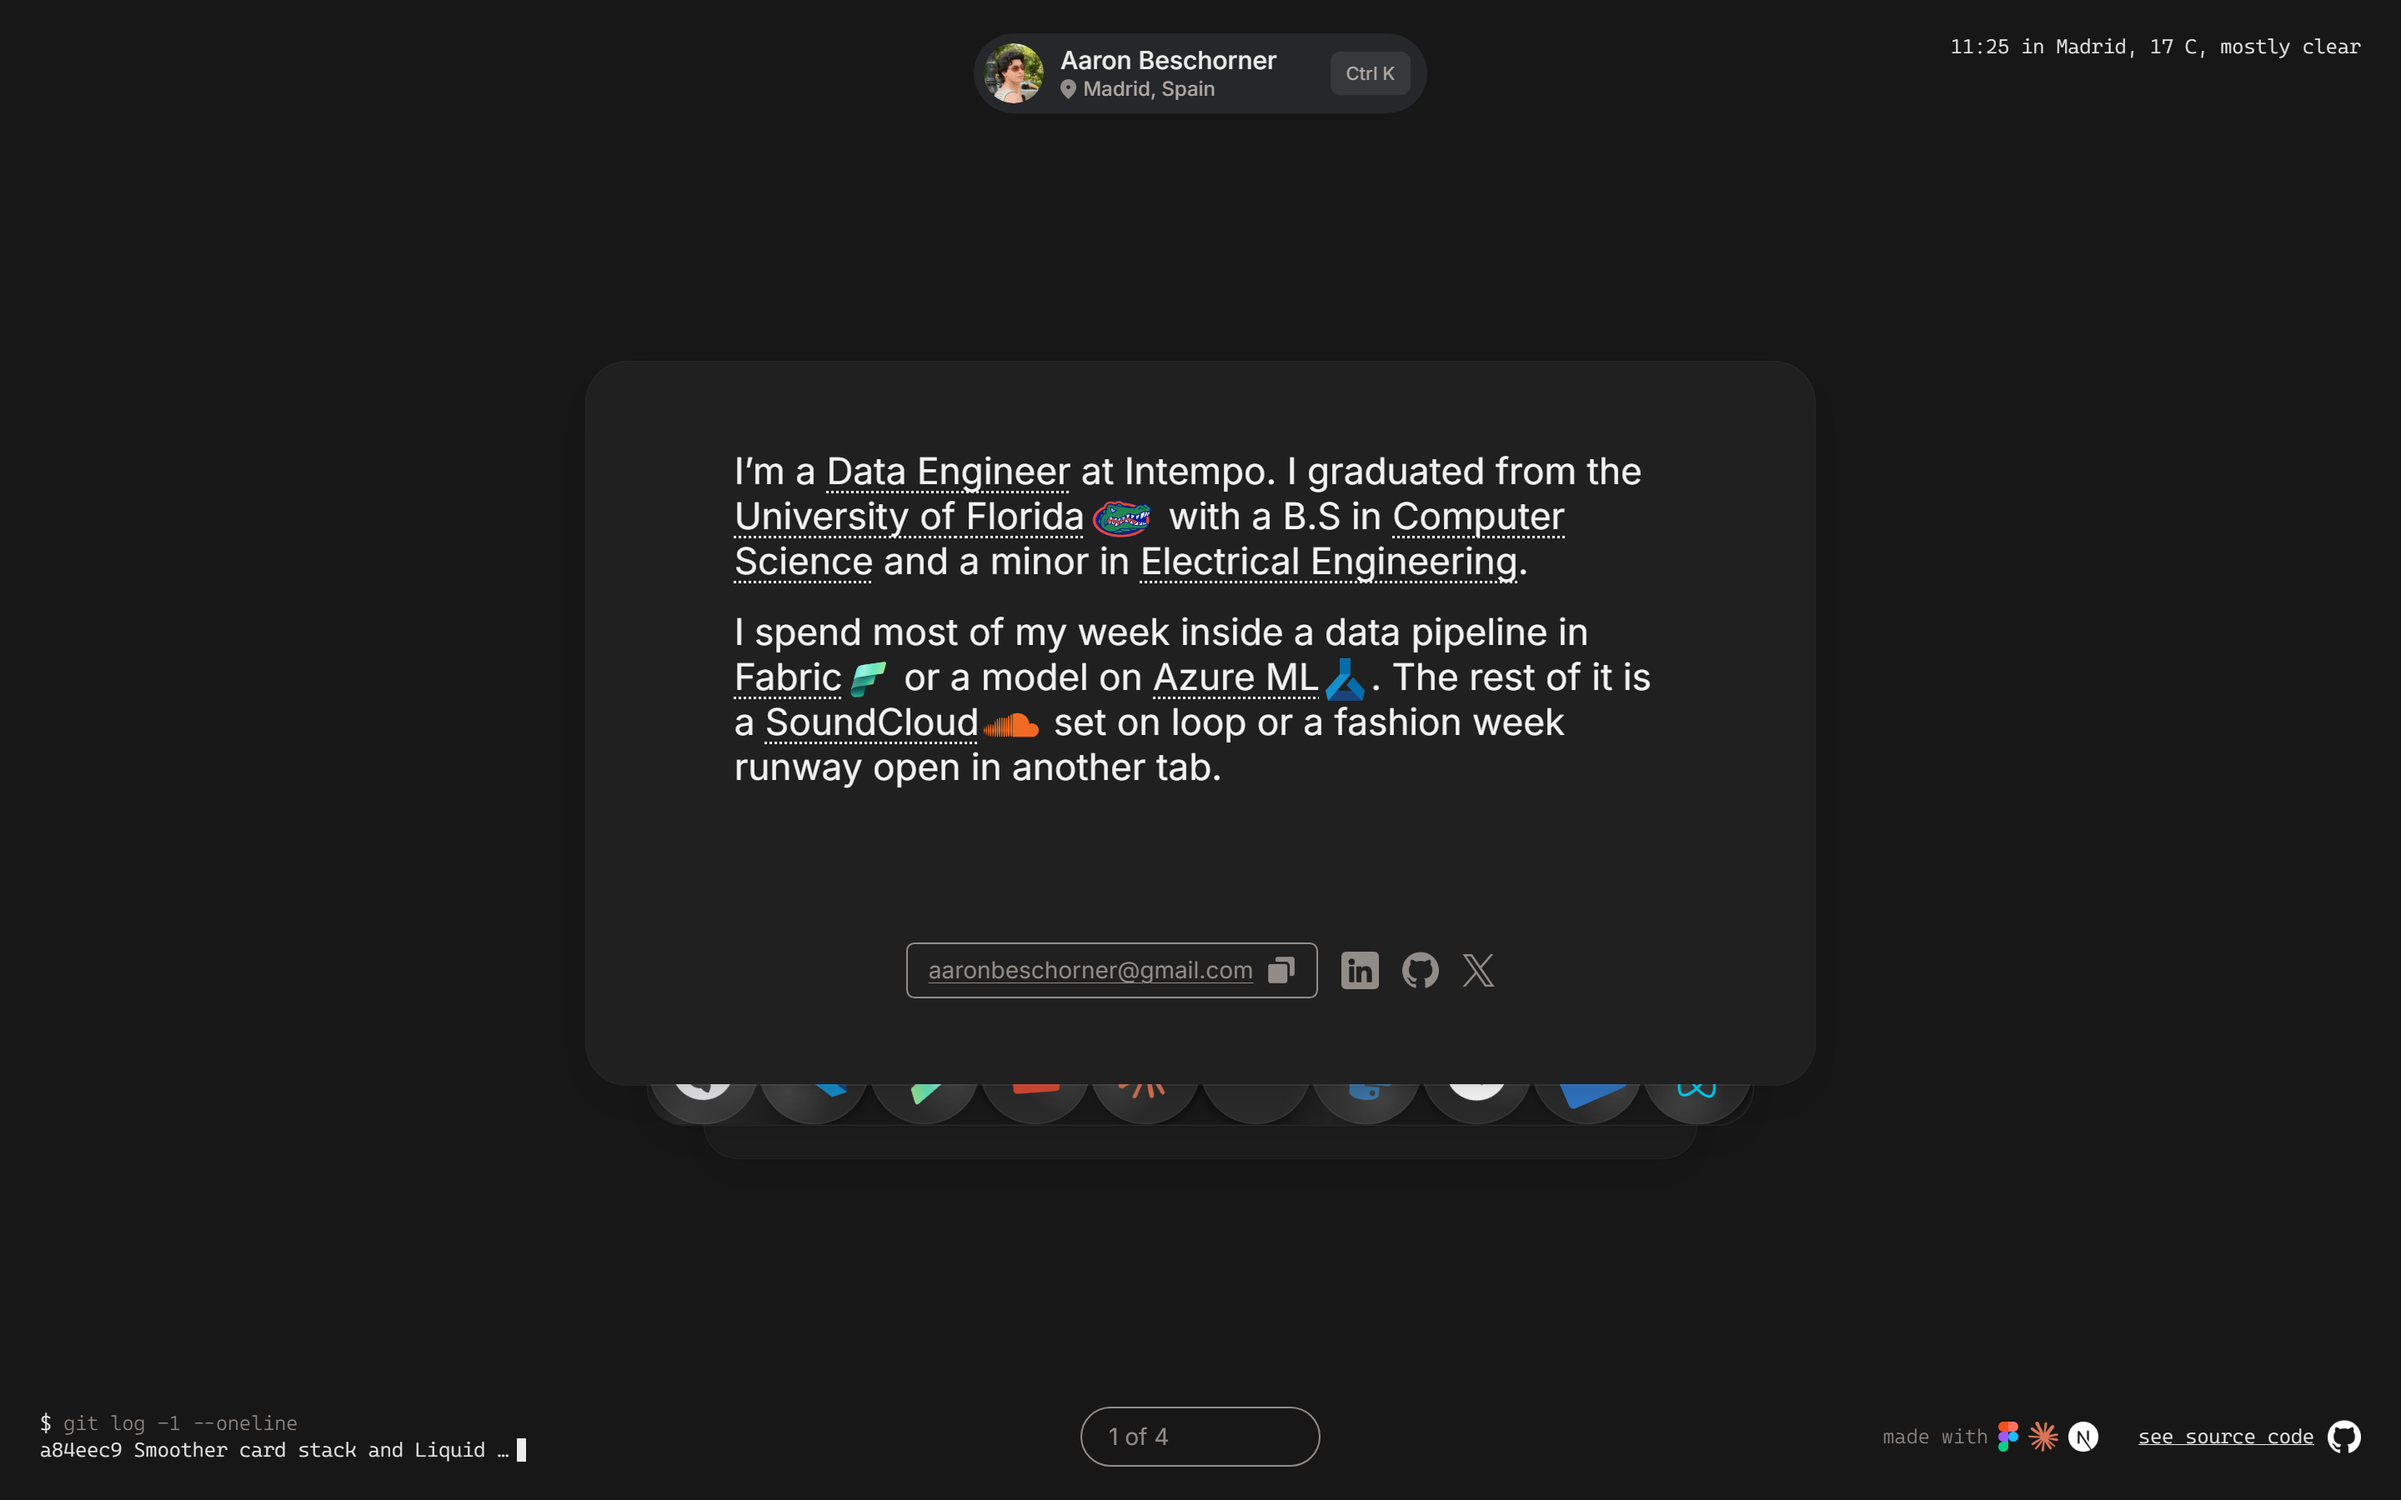
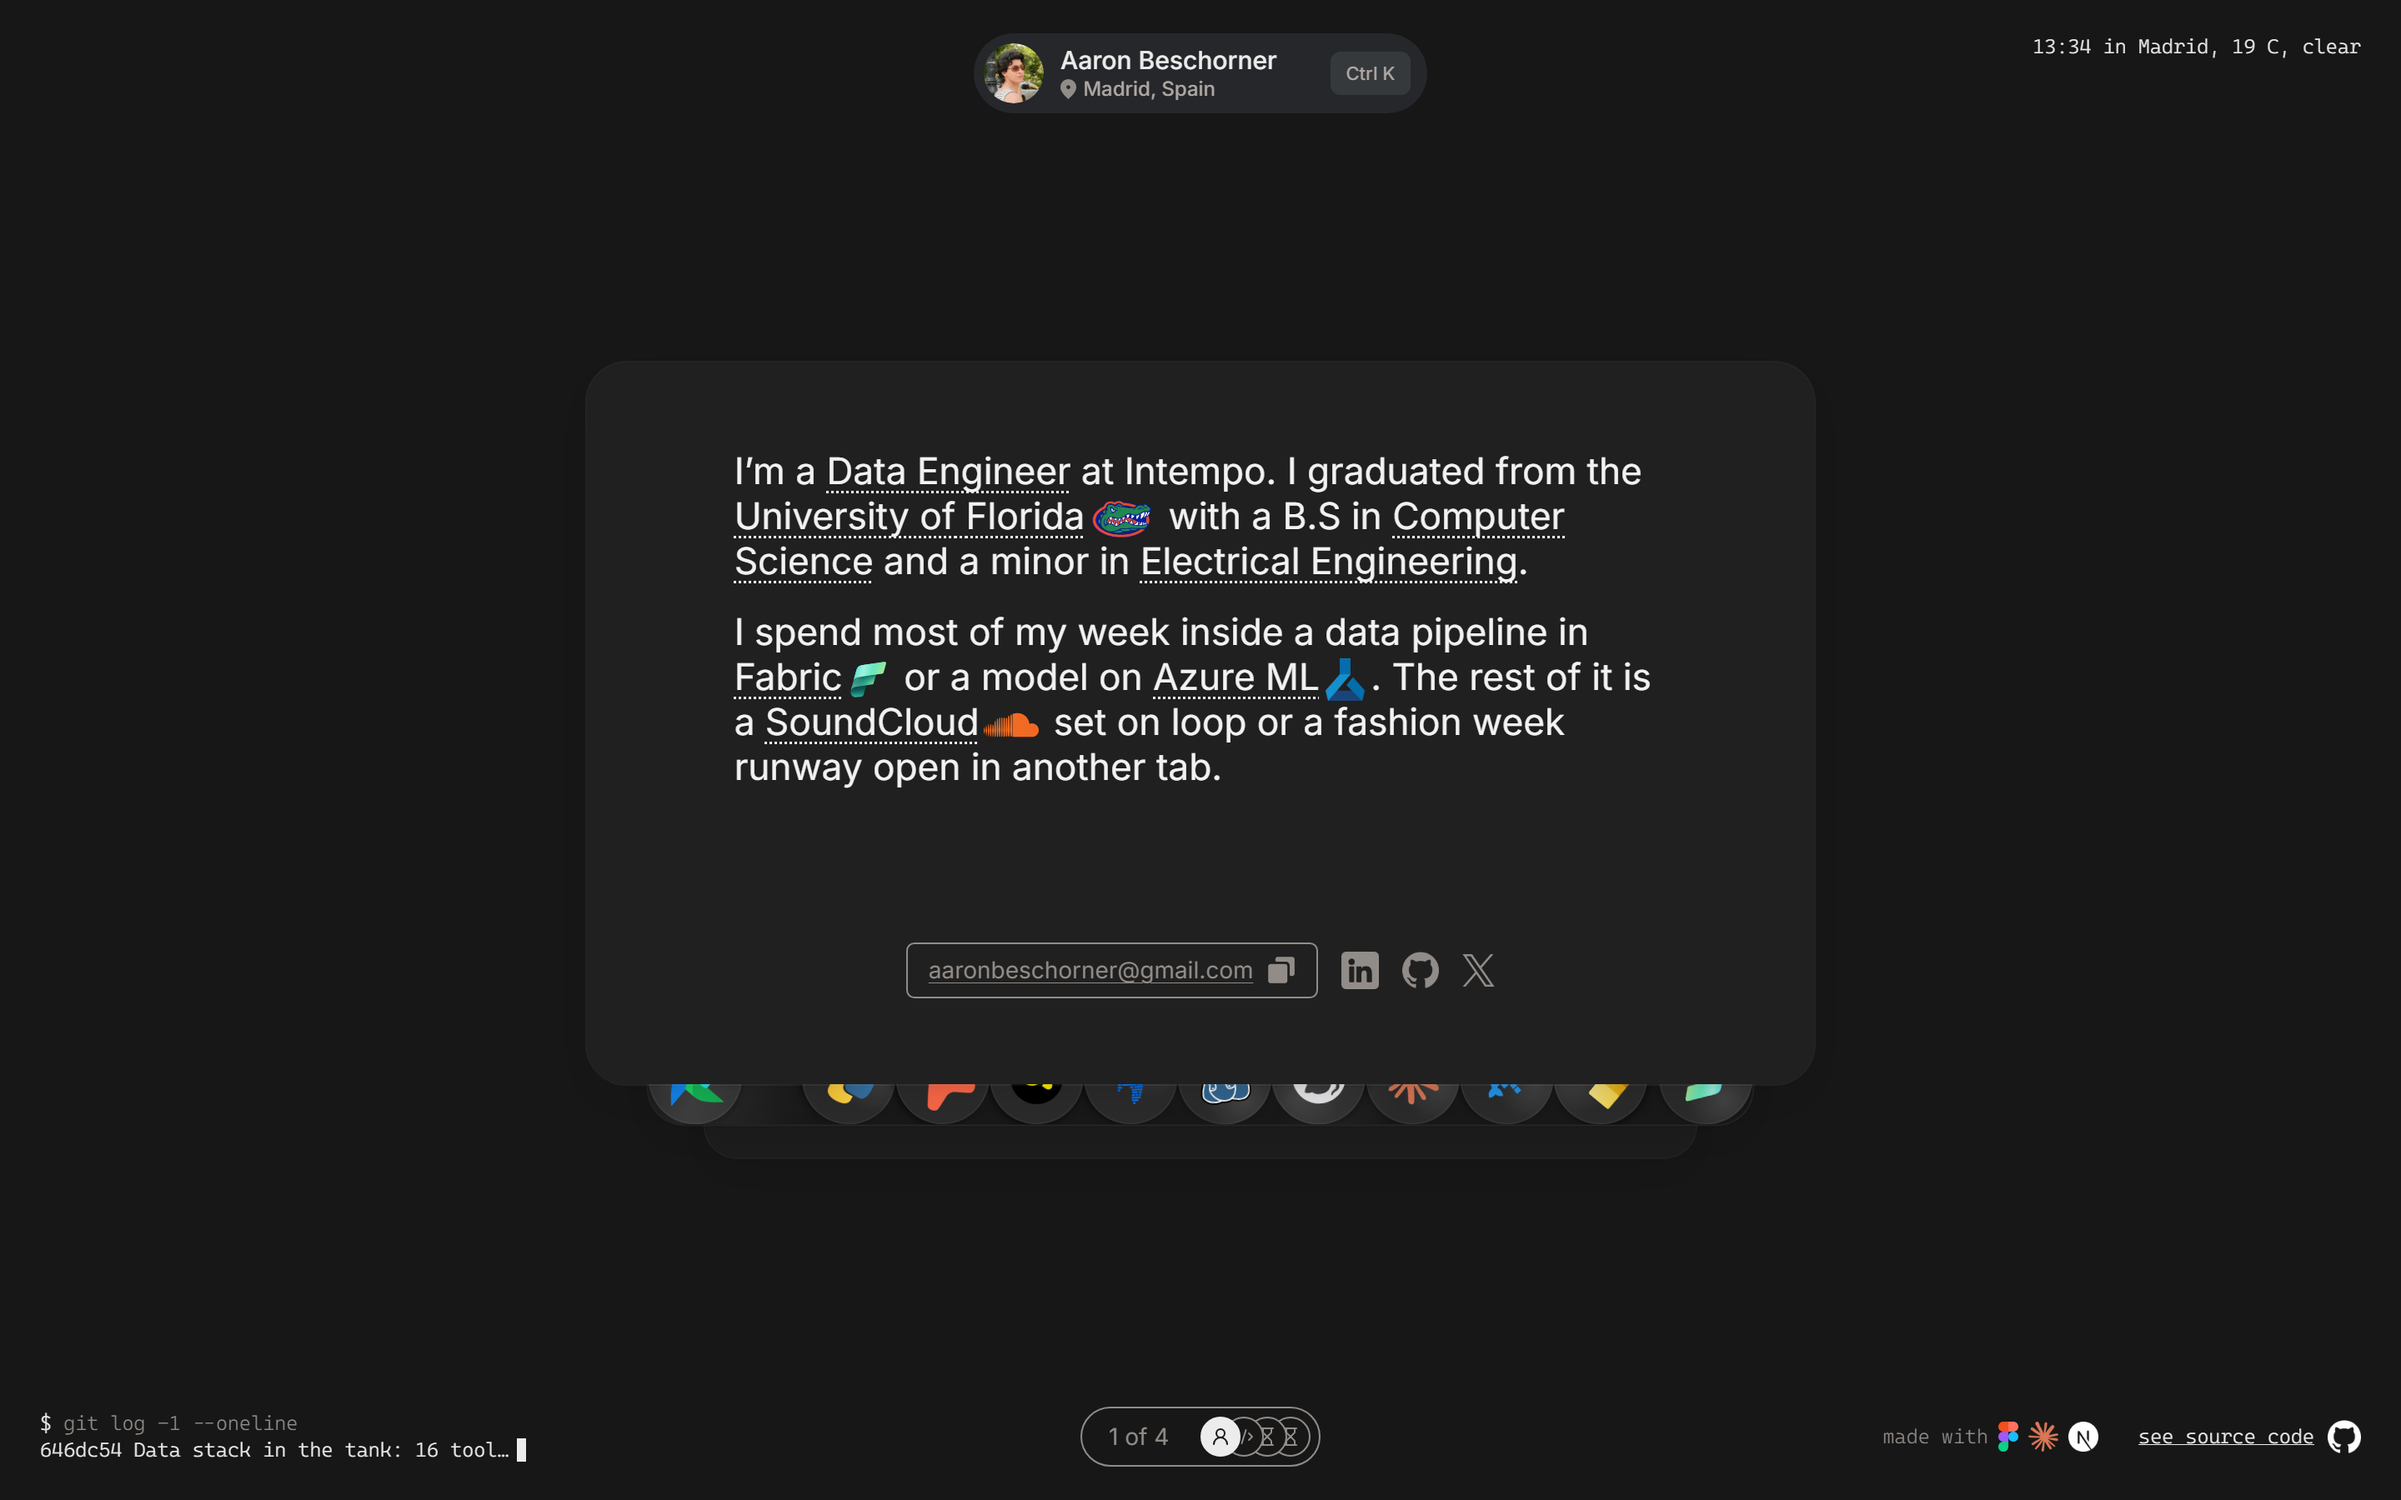
Pager: stacked page circles that fan out to jump between cards

diff --git a/components/Deck.tsx b/components/Deck.tsx
@@ -10,16 +10,23 @@ import {
   type PointerEvent,
   type ReactNode,
 } from "react";
+import { flushSync } from "react-dom";
+import MaskIcon from "./MaskIcon";
 
-const DURATION = 450; // ms; matches duration-450 below.
+const DURATION = 450; // ms, for one card
+const QUICK = 260; // ms per card when jumping across several
 
 type DeckState = {
   index: number;
   count: number;
   leaving: number | null;
   entering: number | null;
+  /** How long the current move takes, in ms. */
+  duration: number;
   next: () => void;
   prev: () => void;
+  /** Goes to a card, passing through the ones in between. */
+  go: (target: number) => void;
 };
 
 const DeckContext = createContext<DeckState | null>(null);
@@ -48,36 +55,63 @@ export function Deck({
   const [index, setIndex] = useState(0);
   const [leaving, setLeaving] = useState<number | null>(null);
   const [entering, setEntering] = useState<number | null>(null);
+  const [duration, setDuration] = useState(DURATION);
+  // The index as of the latest step, for the timers of a jump.
+  const current = useRef(0);
   const busy = useRef(false);
 
-  // Ignore input while a card is mid-animation.
-  function begin() {
-    if (busy.current || count < 2) return false;
+  // One card forward (the front card flies off the top) or back (the
+  // previous card is parked above the stack, then slides down into place).
+  function step(dir: 1 | -1) {
+    const from = current.current;
+    const to = (from + dir + count) % count;
+    current.current = to;
+    if (dir > 0) {
+      setLeaving(from);
+      setIndex(to);
+    } else {
+      flushSync(() => setEntering(to));
+      // Make the browser take in the parked position now, so the slide
+      // starts there rather than from the card's place at the back.
+      document.body.getBoundingClientRect();
+      setEntering(null);
+      setIndex(to);
+    }
+  }
+
+  // Moves several cards one after the other, like that many quick swipes,
+  // ignoring input until the last one lands.
+  function run(dir: 1 | -1, steps: number) {
+    if (busy.current || count < 2 || steps < 1) return;
     busy.current = true;
-    setTimeout(() => {
+    const ms = steps > 1 ? QUICK : DURATION;
+    setDuration(ms);
+    let left = steps;
+    const tick = () => {
+      step(dir);
+      left -= 1;
+      setTimeout(left > 0 ? tick : done, ms);
+    };
+    const done = () => {
+      setLeaving(null);
       busy.current = false;
-    }, DURATION);
-    return true;
+    };
+    tick();
   }
 
-  function next() {
-    if (!begin()) return;
-    setLeaving(index);
-    setIndex((index + 1) % count);
-    setTimeout(() => setLeaving(null), DURATION);
-  }
+  const next = () => run(1, 1);
+  const prev = () => run(-1, 1);
 
-  function prev() {
-    if (!begin()) return;
-    const target = (index - 1 + count) % count;
-    // Park the card above the stack first, then let it slide down into place.
-    setEntering(target);
-    requestAnimationFrame(() =>
-      requestAnimationFrame(() => {
-        setEntering(null);
-        setIndex(target);
-      }),
-    );
+  // Later cards are ahead (swipes up), earlier ones behind (swipes down).
+  function go(target: number) {
+    const distance = target - current.current;
+    if (!distance || busy.current) return;
+    if (matchMedia("(prefers-reduced-motion: reduce)").matches) {
+      current.current = target;
+      setIndex(target);
+      return;
+    }
+    run(distance > 0 ? 1 : -1, Math.abs(distance));
   }
 
   const onKeyDown = useEffectEvent((e: KeyboardEvent) => {
@@ -102,7 +136,9 @@ export function Deck({
   }, []);
 
   return (
-    <DeckContext value={{ index, count, leaving, entering, next, prev }}>
+    <DeckContext
+      value={{ index, count, leaving, entering, duration, next, prev, go }}
+    >
       {children}
     </DeckContext>
   );
@@ -120,7 +156,7 @@ const POSES = [
 // During the Go Gators party the cards behind light up in orange and blue.
 const PARTY = ["", "gators-layer", "gators-layer gators-alt"];
 const OFFSTAGE = "translateY(-110%)";
-const EASE = "duration-450 ease-[cubic-bezier(0.2,0.8,0.2,1)] motion-reduce:transition-none";
+const EASE = "ease-[cubic-bezier(0.2,0.8,0.2,1)] motion-reduce:transition-none";
 
 /**
  * The card stack. Swipe (or drag) up for the next card and down for the
@@ -133,7 +169,7 @@ export function DeckCards({
   cards: ReactNode[];
   label: string;
 }) {
-  const { index, count, leaving, entering, next, prev } = useDeck();
+  const { index, count, leaving, entering, duration, next, prev } = useDeck();
   const [drag, setDrag] = useState(0);
   const [dragging, setDragging] = useState(false);
   const [height, setHeight] = useState(1);
@@ -278,6 +314,8 @@ export function DeckCards({
             party = PARTY[d];
           }
           const animate = i !== entering && !dragging;
+          // Only with a transition set: alone it would animate everything.
+          const transitionDuration = animate ? `${duration}ms` : undefined;
 
           return (
             <div
@@ -287,7 +325,12 @@ export function DeckCards({
               aria-label={`${i + 1} of ${count}`}
               inert={!front}
               className={`@container absolute inset-0 overflow-hidden rounded-[20px] bg-surface shadow-[0_1px_2px_rgb(0_0_0/0.05),0_10px_28px_-16px_rgb(0_0_0/0.25)] md:rounded-[24px] dark:ring-1 dark:ring-white/[0.06] ${party} ${animate ? `transition-[transform,opacity] ${EASE}` : ""}`}
-              style={{ transform, opacity, zIndex: z }}
+              style={{
+                transform,
+                opacity,
+                zIndex: z,
+                transitionDuration,
+              }}
             >
               <div className="size-full">
                 <FrontCardContext value={front}>{card}</FrontCardContext>
@@ -295,7 +338,7 @@ export function DeckCards({
               <div
                 aria-hidden
                 className={`pointer-events-none absolute inset-0 bg-black ${animate ? `transition-opacity ${EASE}` : ""}`}
-                style={{ opacity: dim }}
+                style={{ opacity: dim, transitionDuration }}
               />
             </div>
           );
@@ -308,16 +351,112 @@ export function DeckCards({
   );
 }
 
-export function DeckPager({ className = "" }: { className?: string }) {
-  const { index, count, next } = useDeck();
+// The pager pill (w-36 by h-9, with a 1px border), in px.
+const PILL = { w: 142, h: 34 };
+const DOT = 24;
+const INSET = (PILL.h - DOT) / 2;
+const OVERLAP = 14; // offset between stacked circles
+
+/**
+ * "1 of 4" plus a circle per card, stacked at the end of the pill. Hovering
+ * (or tapping the circles, on touch) fans them out across the pill so any
+ * card is one click away.
+ */
+export function DeckPager({
+  pages,
+  className = "",
+}: {
+  pages: { label: string; icon: string }[];
+  className?: string;
+}) {
+  const { index, count, next, go } = useDeck();
+  const [hovered, setHovered] = useState(false);
+  const [focused, setFocused] = useState(false);
+  const [tapped, setTapped] = useState(false);
+  const open = hovered || focused || tapped;
+  const root = useRef<HTMLDivElement>(null);
+
+  // On touch, a tap anywhere else folds them back up.
+  useEffect(() => {
+    if (!tapped) return;
+    const close = (e: globalThis.PointerEvent) => {
+      if (!root.current?.contains(e.target as Node)) setTapped(false);
+    };
+    document.addEventListener("pointerdown", close);
+    return () => document.removeEventListener("pointerdown", close);
+  }, [tapped]);
+
+  const n = pages.length;
+  const spread = (PILL.w - 2 * INSET - DOT) / Math.max(1, n - 1);
+
   return (
-    <button
-      type="button"
-      onClick={next}
-      aria-label="Next card"
-      className={`h-9 w-36 cursor-pointer rounded-full border border-muted pl-4 text-left text-[14px] text-muted transition-colors hover:border-ink hover:text-ink ${className}`}
+    <div
+      ref={root}
+      role="group"
+      aria-label="Cards"
+      className={`relative h-9 w-36 rounded-full border transition-colors ${open ? "border-ink" : "border-muted hover:border-ink"} ${className}`}
+      onPointerEnter={(e) => {
+        if (e.pointerType === "mouse") setHovered(true);
+      }}
+      onPointerLeave={(e) => {
+        if (e.pointerType === "mouse") setHovered(false);
+      }}
+      onFocus={(e) => setFocused(e.target.matches("[data-page]:focus-visible"))}
+      onBlur={(e) => {
+        if (!e.currentTarget.contains(e.relatedTarget)) setFocused(false);
+      }}
     >
-      {index + 1} of {count}
-    </button>
+      <button
+        type="button"
+        onClick={next}
+        aria-label="Next card"
+        className="absolute inset-0 cursor-pointer rounded-full pl-4 text-left text-[14px] text-muted transition-colors hover:text-ink"
+      >
+        <span
+          className={`transition-opacity duration-200 ${open ? "opacity-0" : ""}`}
+        >
+          {index + 1} of {count}
+        </span>
+      </button>
+
+      {pages.map((page, i) => {
+        const current = i === index;
+        // Stacked at the end, or spread evenly across the pill.
+        const x = open
+          ? INSET + i * spread
+          : PILL.w - INSET - DOT - (n - 1 - i) * OVERLAP;
+        return (
+          <button
+            key={i}
+            type="button"
+            data-page
+            aria-label={`${page.label}, ${i + 1} of ${n}`}
+            aria-current={current || undefined}
+            onClick={() => {
+              // On touch the first tap fans the circles out to choose from.
+              if (open) {
+                setTapped(false);
+                go(i);
+              } else {
+                setTapped(true);
+              }
+            }}
+            className={`absolute top-0 left-0 flex size-6 cursor-pointer items-center justify-center rounded-full border transition-[translate,color,background-color,border-color] duration-300 ease-[cubic-bezier(0.2,0.8,0.2,1)] motion-reduce:transition-none ${
+              current
+                ? "border-ink bg-ink text-canvas"
+                : "border-muted bg-canvas text-muted hover:border-ink hover:text-ink"
+            }`}
+            style={{
+              translate: `${x}px ${INSET}px`,
+              // The current card's circle on top, the rest under it by
+              // distance, like the cards in the deck.
+              zIndex: n - Math.abs(i - index),
+            }}
+          >
+            <MaskIcon src={page.icon} className="size-3" />
+          </button>
+        );
+      })}
+    </div>
   );
 }

diff --git a/app/page.tsx b/app/page.tsx
@@ -139,11 +139,28 @@ export default async function Home() {
       preview: <XPreview />,
     },
   ];
-  const cards = [
-    <BioCard key="bio" socials={socials} />,
-    <StackCard key="stack" />,
-    <ComingSoonCard key="3" />,
-    <ComingSoonCard key="4" />,
+  // The cards, with the name and icon each one has in the pager.
+  const pages = [
+    {
+      label: "Bio",
+      icon: "/icons/pages/bio.svg",
+      card: <BioCard socials={socials} />,
+    },
+    {
+      label: "Stack",
+      icon: "/icons/pages/stack.svg",
+      card: <StackCard />,
+    },
+    {
+      label: "Coming soon",
+      icon: "/icons/pages/soon.svg",
+      card: <ComingSoonCard />,
+    },
+    {
+      label: "Coming soon",
+      icon: "/icons/pages/soon.svg",
+      card: <ComingSoonCard />,
+    },
   ];
 
   return (
@@ -164,9 +181,9 @@ export default async function Home() {
         </p>
       </div>
 
-      <Deck count={cards.length}>
+      <Deck count={pages.length}>
         <main className="w-full lg:min-h-0 lg:flex-1 lg:py-6">
-          <DeckCards cards={cards} label="About Aaron" />
+          <DeckCards cards={pages.map((p) => p.card)} label="About Aaron" />
         </main>
 
         <footer className="flex w-full flex-auto flex-col items-center pt-3 pb-4 lg:grid lg:flex-none lg:pt-0 lg:grid-cols-[1fr_auto_1fr] lg:items-center lg:gap-6 lg:px-2 lg:pb-5">
@@ -186,7 +203,10 @@ export default async function Home() {
           </div>
 
           {/* Auto margins center the pager between the cards and the commit. */}
-          <DeckPager className="order-1 my-auto lg:order-none lg:my-0" />
+          <DeckPager
+            pages={pages.map(({ label, icon }) => ({ label, icon }))}
+            className="order-1 my-auto lg:order-none lg:my-0"
+          />
 
           <div className="order-3 mt-5 flex lg:mt-0 items-center gap-6 font-mono text-[11px] font-light lg:order-none lg:justify-self-end lg:text-xs">
             <p className="flex items-center gap-1.5 text-muted">
